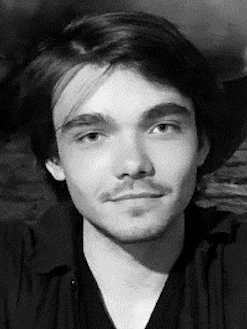
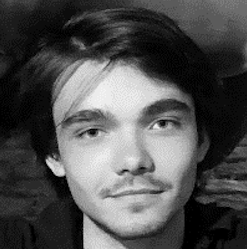
a

diff --git a/team.html b/team.html
@@ -83,12 +83,12 @@
 								</div>
 								
 							</br>
-								<h3>VENUS Data Team</h3>
+								<h3>VENUS Key Architects</h3>
 								<div class="row">
 									
 									<div class="col-3">
 										<span class="image fit"><image src="images/vasily.png" style="border-radius:50%;"></image></span>
-										<h4 style="text-align:center;margin:0;">NIRCam: Vasily Kokorev</h4>
+										<h4 style="text-align:center;margin:0;">NIRCam map & catalog: Vasily Kokorev</h4>
 										<p style="text-align:center;">University of Texas, Austin</p>
 									</div>
 									
